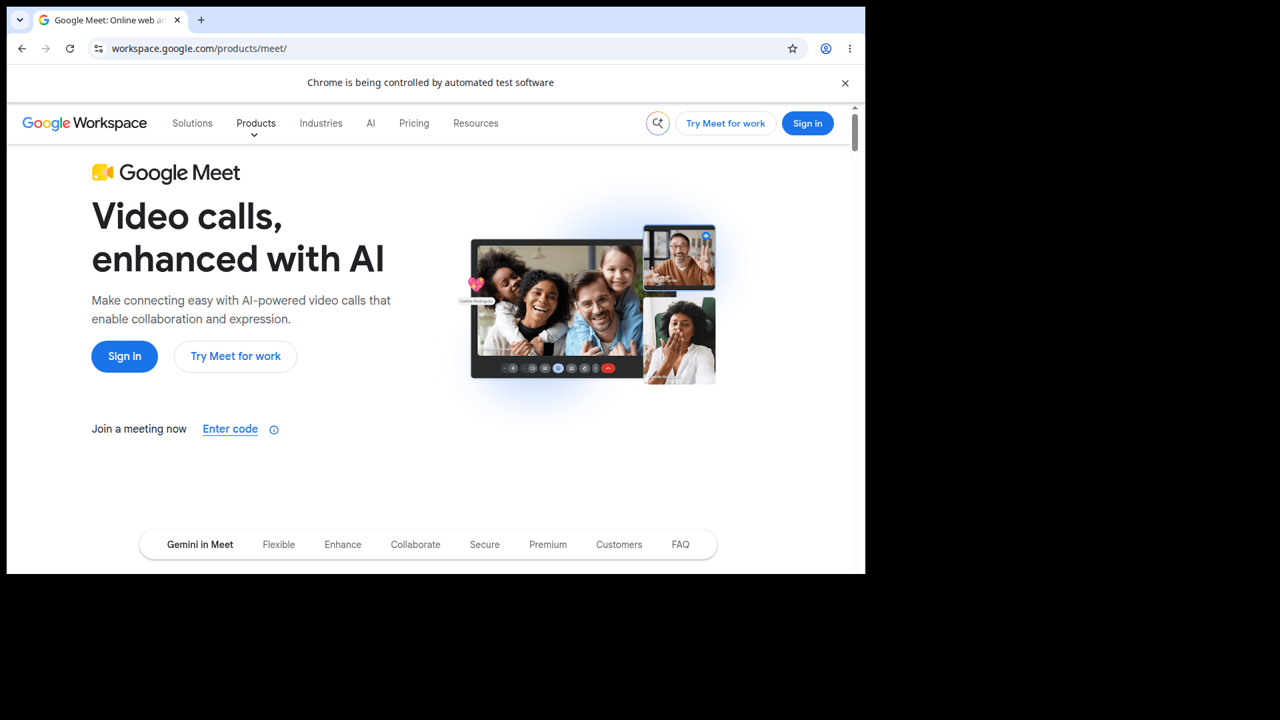
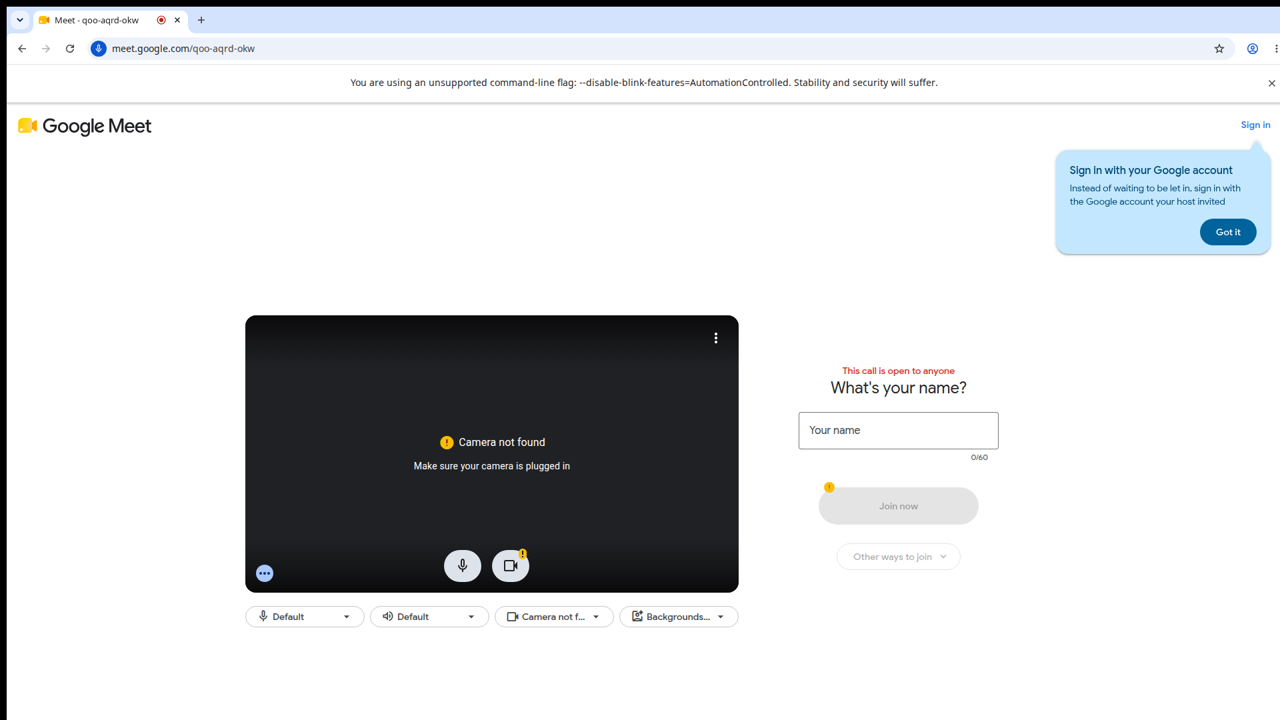
Hybrid vision brain: semantic targets resolved via DOM locators, coordinate fallback; strip remaining automation flags

diff --git a/agent/vw_agent/browser.py b/agent/vw_agent/browser.py
@@ -33,14 +33,16 @@ class Browser:
                     # look like a normal browser: Meet refuses automation-flagged
                     # sessions ("Chrome is being controlled by automated test
                     # software") before the host ever sees a knock
-                    ignore_default_args=["--enable-automation"],
+                    ignore_default_args=["--enable-automation",
+                                         "--no-sandbox"],
                     args=args + ["--window-size=1920,1080"])
                 print("[browser] using system Google Chrome", flush=True)
             except Exception:
                 self.ctx = self.pw.chromium.launch_persistent_context(
                     profile, headless=False,
                     viewport={"width": 1920, "height": 1080},
-                    ignore_default_args=["--enable-automation"],
+                    ignore_default_args=["--enable-automation",
+                                         "--no-sandbox"],
                     args=args + ["--window-size=1920,1080"])
                 print("[browser] using bundled chromium", flush=True)
             # grant mic/camera like a normal user would have accepted, instead
@@ -63,16 +65,52 @@ class Browser:
         """Full-window screenshot as PNG bytes (same size as the viewport)."""
         return self.page.screenshot(type="png")
 
+    def _resolve(self, target):
+        """Find an element by accessible name / label / text (brain's target)."""
+        page = self.page
+        strategies = (
+            lambda: page.get_by_placeholder(target),
+            lambda: page.get_by_role("textbox", name=target),
+            lambda: page.get_by_role("button", name=target),
+            lambda: page.get_by_label(target),
+            lambda: page.get_by_role("link", name=target),
+            lambda: page.get_by_text(target, exact=False),
+        )
+        for strat in strategies:
+            try:
+                loc = strat().first
+                if loc.is_visible(timeout=1200):
+                    return loc
+            except Exception:
+                continue
+        return None
+
     def act(self, decision):
-        """Execute a decision from the brain: click/fill/key/wait."""
+        """Execute a decision from the brain: click/fill/key/wait.
+
+        Preferred: resolve `target` in the DOM (precise). Fallback: raw
+        coordinates from the vision model.
+        """
         action = decision.get("action")
         coord = decision.get("coordinate")
+        target = decision.get("target")
+        loc = self._resolve(target) if target else None
         if action == "click":
-            self.page.mouse.click(coord[0], coord[1])
-        elif action == "fill":
-            if coord:
+            if loc is not None:
+                loc.click(timeout=4000)
+            elif coord:
                 self.page.mouse.click(coord[0], coord[1])
-            self.page.keyboard.type(decision.get("text", ""), delay=40)
+            else:
+                raise ValueError("click: no target and no coordinate")
+        elif action == "fill":
+            if loc is not None:
+                loc.click(timeout=4000)
+            elif coord:
+                self.page.mouse.click(coord[0], coord[1])
+            time.sleep(0.4)
+            self.page.keyboard.press("Control+A")  # replace any content
+            self.page.keyboard.type(decision.get("text", ""), delay=90)
+            self.page.keyboard.press("Tab")        # commit the field
         elif action == "key":
             self.page.keyboard.press(decision.get("text", "Enter"))
         elif action == "wait":

diff --git a/backend/vw_backend/brain.py b/backend/vw_backend/brain.py
@@ -30,16 +30,26 @@ VISION_PERSONA = (
     "'Alex' if asked, then click the join button (Ask to join / Join now). "
     "Decide the next action and reply with ONLY a JSON object:\n"
     '{"action": "click" | "fill" | "key" | "wait" | "done" | "give_up", '
-    '"coordinate": [x, y], "text": "...", "reason": "one short sentence"}\n'
-    "- click/fill need a coordinate (pixel center of the target element). "
-    "fill: click the field then type text. key: key name in text (e.g. Enter). "
-    "- choose done when the in-meeting UI is visible (participants/tiles/" 
-    "controls), NOT for the pre-join/lobby screen. "
+    '"target": "...", "coordinate": [x, y], "text": "...", '
+    '"reason": "one short sentence"}\n'
+    "- click/fill MUST include target: the visible label, placeholder or "
+    "aria-name of the element (e.g. 'Your name', 'Join now', 'Ask to join', "
+    "'Got it'). The browser resolves it precisely; coordinate is only a "
+    "fallback (pixel center). "
+    "fill: target the input field, text = what to type. key: key name in "
+    "text (e.g. Enter). "
+    "- choose done ONLY when the actual in-call interface is visible: "
+    "participant video tiles, or the call control bar (mute/camera/captions/" 
+    "leave-call buttons), or a 'You're the only one here' call screen. "
+    "The pre-join/lobby screen is NOT the meeting - it shows 'What's your "
+    "name?', a device preview, and device dropdowns. Never choose done for it. "
     "- choose give_up when the page clearly refuses joining (e.g. 'You can't "
     "join this video call', sign-in wall that cannot be bypassed without "
-    "credentials you do not have), OR when you already clicked the join "
-    "button before and the same pre-join screen came back - that means the "
-    "knock is being rejected; do not click the same button again. "
+    "credentials you do not have), OR when, after a full retry, the screen "
+    "still shows the pre-join page unchanged. On an unchanged pre-join screen, "
+    "do NOT click join again immediately: first re-click the name field, "
+    "retype the name with fill, check the join button looks enabled (not "
+    "greyed out), and only then click it once. "
     "- If a microphone/camera permission dialog appears, click Allow. "
     "- Never start a new meeting, never share content, never touch account "
     "recovery or settings you were not asked for."
